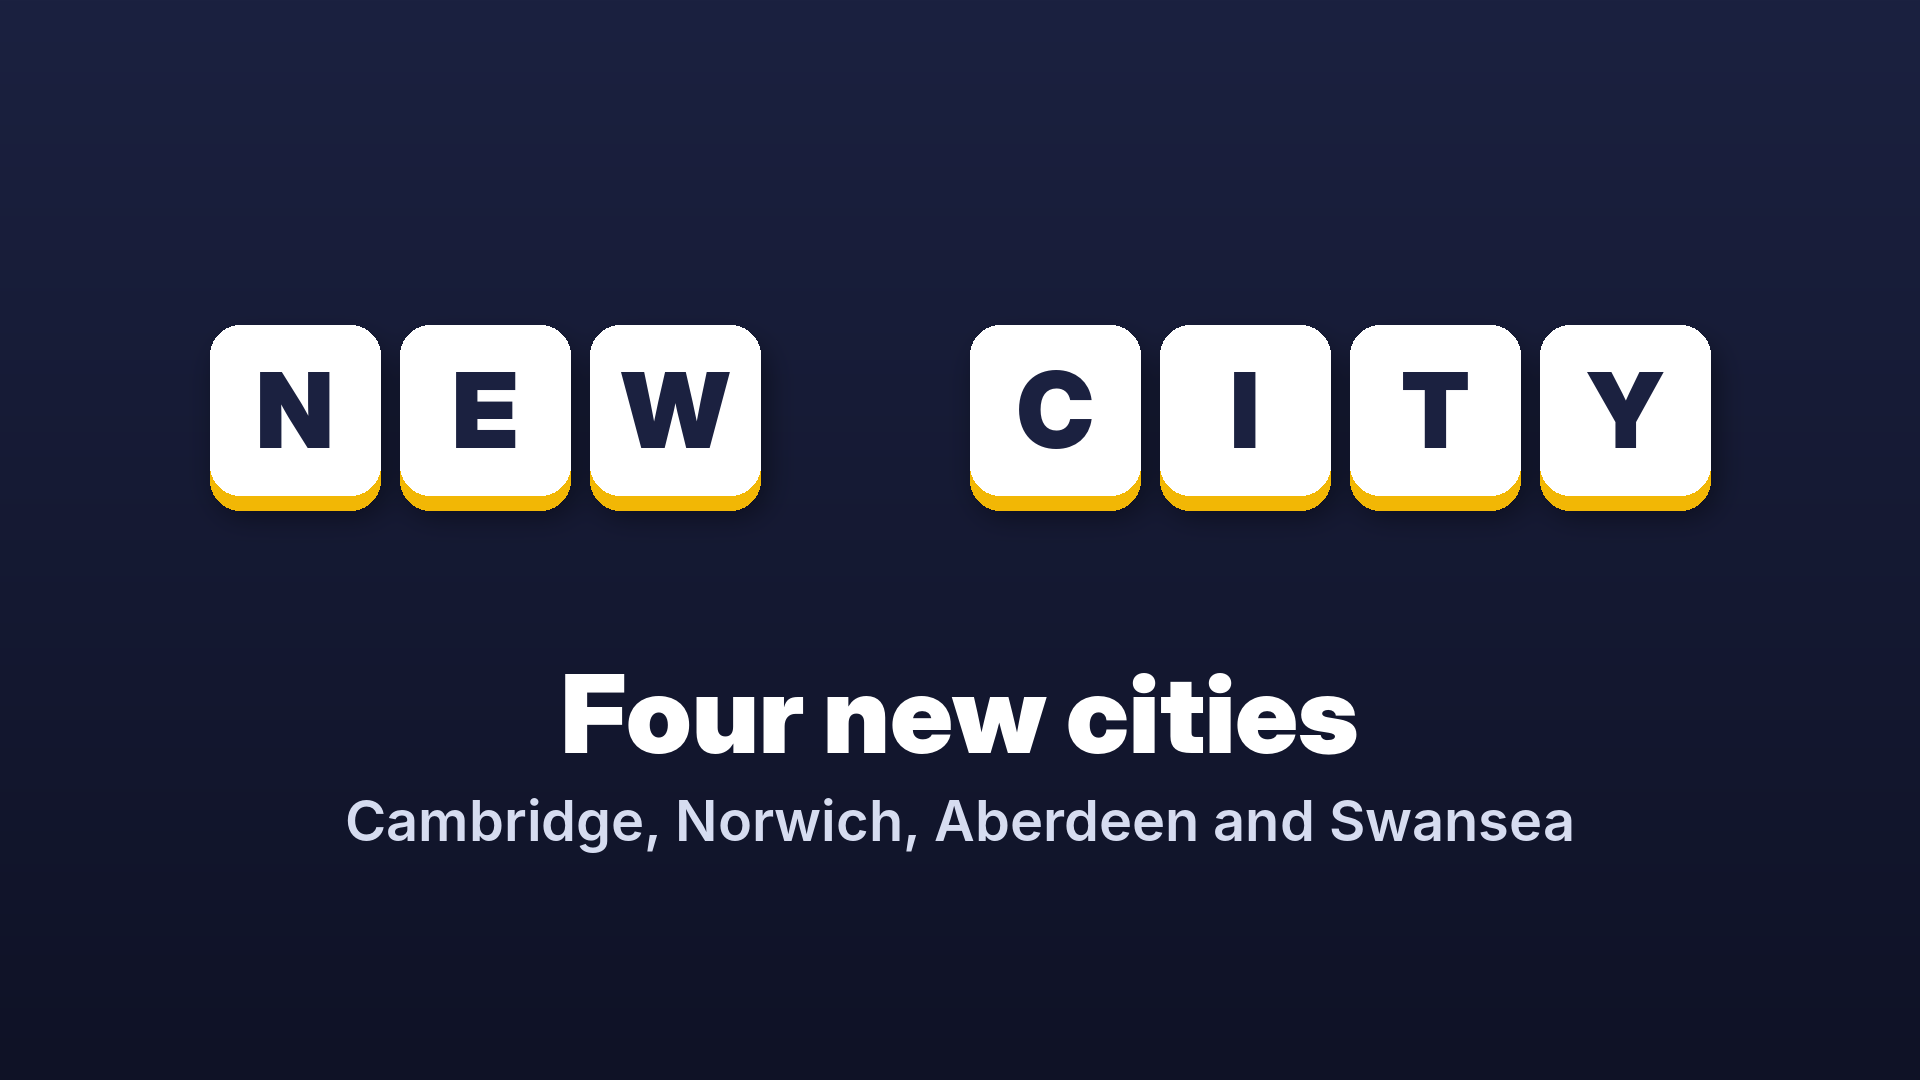
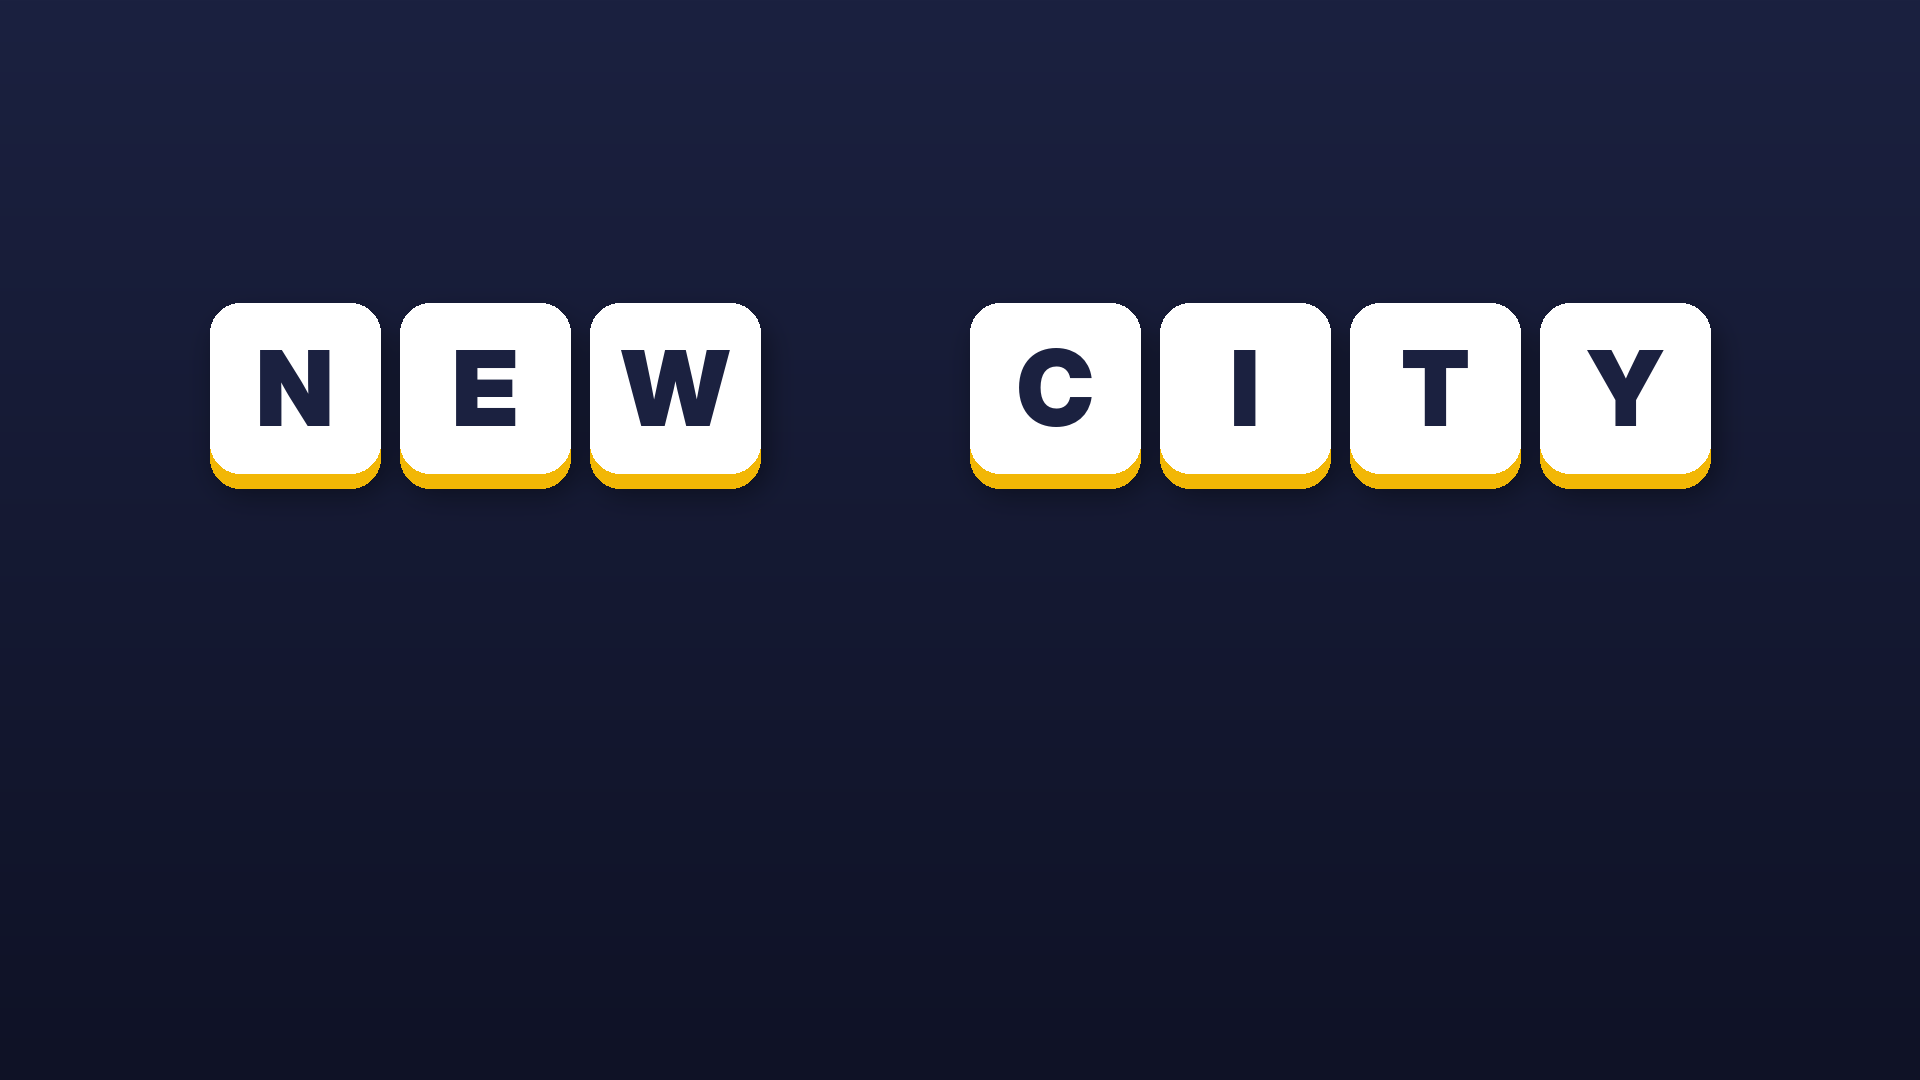
Relatable 2.0: support, privacy and press pages for the new features
Time Attack, daily archive, streak freezes, fact file, reminders, Siri,
Family Sharing, keyboard play and Apple Watch. 22 cities, 2,200 puzzles.
Event art without headline text.

Claude-Session: https://claude.ai/code/session_01B3sVq22PHgGHWJUjag764E

diff --git a/relatable/index.html b/relatable/index.html
@@ -44,7 +44,23 @@
       </div>
       <div>
         <dt>What is the daily puzzle?</dt>
-        <dd>A new conundrum every day at midnight UK time, picked from all the cities. It's free to play, costs no lives and builds a streak if you solve it every day. Tap Share to post your result without giving the answer away. You can also add the daily puzzle widget to your Home Screen or Lock Screen.</dd>
+        <dd>A new conundrum every day at midnight UK time, picked from all the cities. It's free to play, costs no lives and builds a streak if you solve it every day. Tap Share to post your result without giving the answer away. You can also add the daily puzzle widget to your Home Screen or Lock Screen, or the Relatable button to Control Centre.</dd>
+      </div>
+      <div>
+        <dt>What is a streak freeze?</dt>
+        <dd>Every seven days in a row earns one, and you can hold two. If you miss a day, a freeze is used automatically and your streak carries on. Days covered by a freeze are marked with a snowflake in the daily archive.</dd>
+      </div>
+      <div>
+        <dt>What is the daily archive?</dt>
+        <dd>The last 30 daily puzzles, so you can catch up on days you missed or go back for three stars. It comes with the Every City Pass. Archive puzzles never change your streak.</dd>
+      </div>
+      <div>
+        <dt>What is Time Attack?</dt>
+        <dd>Two minutes to solve as many anagrams as you can, drawn from the cities you've unlocked. You can skip any that stump you. It costs no lives, and your best score goes on a Game Center leaderboard. On iOS 26 and later you can also challenge friends to beat it.</dd>
+      </div>
+      <div>
+        <dt>What is the fact file?</dt>
+        <dd>Every answer comes with a fact about the place. Each city keeps the facts for the levels you've solved in its fact file, on the city's level screen.</dd>
       </div>
       <div>
         <dt>Does replaying a level cost a life?</dt>
@@ -52,15 +68,27 @@
       </div>
       <div>
         <dt>Can I play on more than one device?</dt>
-        <dd>Yes. Relatable runs on iPhone, iPad and iPhone Duo. Sign in to iCloud with the same Apple Account and your stars and daily streak follow you. Purchases carry over too: tap Restore purchases in Settings on the new device.</dd>
+        <dd>Yes. Relatable runs on iPhone, iPad and iPhone Duo, and the daily puzzle is on Apple Watch. Sign in to iCloud with the same Apple Account and your stars and daily streak follow you. Purchases carry over too: tap Restore purchases in Settings on the new device.</dd>
+      </div>
+      <div>
+        <dt>Can my family use my purchases?</dt>
+        <dd>Yes. Cities and the Every City Pass can be shared through Apple's Family Sharing. Hints and life refills are used up as you play, so they can't be shared.</dd>
+      </div>
+      <div>
+        <dt>Can I type my answers?</dt>
+        <dd>Yes, with a keyboard attached to your iPad or iPhone. Type letters to place them, press Delete to take the last one back, Space to shuffle and Escape to clear.</dd>
       </div>
       <div>
         <dt>How do I see leaderboards and achievements?</dt>
         <dd>Sign in to Game Center in the Settings app, then tap the trophy button on Relatable's home screen.</dd>
       </div>
       <div>
-        <dt>Can it remind me when my lives are back?</dt>
-        <dd>Yes. Turn on "Tell me when lives are back" in the game's Settings. You'll get one notification, never overnight.</dd>
+        <dt>Can it remind me to play?</dt>
+        <dd>Yes. In the game's Settings, turn on "Daily puzzle reminder" and pick a time; it skips days you've already solved. "Tell me when lives are back" sends one notification when your lives refill, never overnight.</dd>
+      </div>
+      <div>
+        <dt>Can I ask Siri?</dt>
+        <dd>Yes. Try "Play today's Relatable", "Start Relatable Time Attack" or "What's my Relatable streak". The same actions are in the Shortcuts app.</dd>
       </div>
       <div>
         <dt>I bought the Every City Pass. Do I get new cities?</dt>
@@ -68,7 +96,7 @@
       </div>
       <div>
         <dt>Why can't I hear anything?</dt>
-        <dd>Relatable stays silent when your iPhone is on silent. Also check the speaker button in the game and the Sound switches in Settings.</dd>
+        <dd>Relatable stays silent when your iPhone or iPad is set to silent. Also check the speaker button in the game and the Sound switches in Settings.</dd>
       </div>
       <div>
         <dt>Can I get a refund?</dt>

diff --git a/relatable/privacy/index.html b/relatable/privacy/index.html
@@ -12,24 +12,26 @@
   <header>
     <a class="crumb" href="/relatable/">Relatable support</a>
     <h1>Relatable privacy policy</h1>
-    <p class="stamp">Last updated 4 November 2026</p>
+    <p class="stamp">Last updated 9 November 2026</p>
   </header>
 
   <section aria-labelledby="summary-title">
     <h2 id="summary-title">In short</h2>
-    <p>This policy covers the Relatable: City Anagrams app for iPhone and iPad, made by Manjinder Boora, an independent developer in the UK. We do not collect any personal data.</p>
+    <p>This policy covers the Relatable: City Anagrams app for iPhone, iPad and Apple Watch, made by Manjinder Boora, an independent developer in the UK. We do not collect any personal data.</p>
 
     <h3>What the app stores</h3>
     <p>Your progress, stars, daily puzzle results, hints, lives and settings are stored on your device. They are never sent to us.</p>
     <h3>iCloud</h3>
-    <p>If you're signed in to iCloud, your stars and daily puzzle streak are also saved in your own iCloud account, so they appear on your other devices. This uses Apple's iCloud key-value storage. We can't see or read it. Hints and lives are not synced.</p>
+    <p>If you're signed in to iCloud, your stars and daily puzzle streak are also saved in your own iCloud account, so they appear on your other devices, including Apple Watch. This uses Apple's iCloud key-value storage. We can't see or read it. Hints and lives are not synced.</p>
     <h3>Game Center</h3>
-    <p>If you use Game Center, your total stars, levels solved, best daily streak and achievements are sent to Apple's Game Center so they can appear on leaderboards. Game Center is run by Apple under Apple's privacy policy, and you can turn it off at any time in the Settings app. Relatable works fully without it.</p>
+    <p>If you use Game Center, your total stars, levels solved, best daily streak, Time Attack scores and achievements are sent to Apple's Game Center so they can appear on leaderboards, and in challenges if you choose to challenge friends. Game Center is run by Apple under Apple's privacy policy, and you can turn it off at any time in the Settings app. Relatable works fully without it.</p>
     <h3>Notifications</h3>
-    <p>If you turn on "Tell me when lives are back", the app schedules a single local notification on your device. It's created by the app itself; nothing is sent to us or to any notification service.</p>
+    <p>If you turn on "Daily puzzle reminder" or "Tell me when lives are back", the app schedules local notifications on your device. They're created by the app itself; nothing is sent to us or to any notification service.</p>
+    <h3>Siri and Shortcuts</h3>
+    <p>If you ask Siri for your streak or to open a puzzle, the answer is worked out on your device from your saved progress. We don't receive your requests.</p>
 
     <h3>Checking the time</h3>
-    <p>To refill lives fairly, the app asks a public web server (apple.com, google.com or cloudflare.com) for the current time. The request contains no personal information and no identifiers. Like any web request, it reveals your IP address to that server, which handles it under its own privacy policy. We don't receive or keep it.</p>
+    <p>To refill lives fairly and show the right daily puzzle, the app asks a public web server (apple.com, google.com or cloudflare.com) for the current time when it opens. The request contains no personal information and no identifiers. Like any web request, it reveals your IP address to that server, which handles it under its own privacy policy. We don't receive or keep it.</p>
 
     <h3>Purchases</h3>
     <p>In-app purchases are processed by Apple. We never see your payment details, name or Apple Account.</p>

diff --git a/relatable/press/index.html b/relatable/press/index.html
@@ -29,10 +29,11 @@
     <h2 id="facts-title">Fact sheet</h2>
     <dl class="facts">
       <dt>Developer</dt><dd>Manjinder Boora, an independent developer in the UK</dd>
-      <dt>Platforms</dt><dd>iPhone, iPad and iPhone Duo (iOS 17 or later)</dd>
-      <dt>Cities</dt><dd>18: London, Nottingham, York, Liverpool, Edinburgh, Manchester, Bristol, Cardiff, Birmingham, Newcastle, Glasgow, Leeds, Sheffield, Belfast, Brighton, Oxford, Bath and Leicester</dd>
-      <dt>Puzzles</dt><dd>1,800 anagrams, 100 per city, each with a one-line fact about the place</dd>
-      <dt>Daily puzzle</dt><dd>A free conundrum every day at midnight UK time, with streaks and spoiler-free sharing</dd>
+      <dt>Platforms</dt><dd>iPhone, iPad and iPhone Duo (iOS 17 or later), with the daily puzzle on Apple Watch</dd>
+      <dt>Cities</dt><dd>22: London, Nottingham, York, Liverpool, Edinburgh, Manchester, Bristol, Cardiff, Birmingham, Newcastle, Glasgow, Leeds, Sheffield, Belfast, Brighton, Oxford, Bath, Leicester, Cambridge, Norwich, Aberdeen and Swansea</dd>
+      <dt>Puzzles</dt><dd>2,200 anagrams, 100 per city, each with a one-line fact about the place</dd>
+      <dt>Daily puzzle</dt><dd>A free conundrum every day at midnight UK time, with streaks, streak freezes and spoiler-free sharing</dd>
+      <dt>Time Attack</dt><dd>Two minutes to solve as many anagrams as possible, with a Game Center leaderboard and friend challenges</dd>
       <dt>Price</dt><dd>Free to download. London, Nottingham and the daily puzzle are free; other cities cost &pound;0.99 each or &pound;4.99 for all of them</dd>
       <dt>Age rating</dt><dd>4+</dd>
       <dt>Privacy</dt><dd>No adverts, no accounts and no personal data collected</dd>
@@ -43,7 +44,7 @@
   <section aria-labelledby="about-title">
     <h2 id="about-title">About the game</h2>
     <p>Pick a city, read the clue and unscramble the letters before the clock runs out. In Nottingham the answers include SHERWOOD and GOOSE FAIR. In Liverpool, SCOUSE and the THREE GRACES. In Belfast, CRAIC and WEE BUNS.</p>
-    <p>Each city's 100 levels start with familiar words and build to proper local knowledge, with a fact revealed after every solve. Game Center leaderboards, a Home Screen widget, iCloud sync, light and dark mode, and original music and sound effects are all included.</p>
+    <p>Each city's 100 levels start with familiar words and build to proper local knowledge, with a fact revealed after every solve. Each city keeps the facts you've found in a fact file. Game Center leaderboards, a Home Screen widget, Siri and Shortcuts, iCloud sync, an Apple Watch app, light and dark mode, and original music and sound effects are all included.</p>
   </section>
   <section aria-labelledby="shots-title">
     <h2 id="shots-title">Screenshots</h2>
